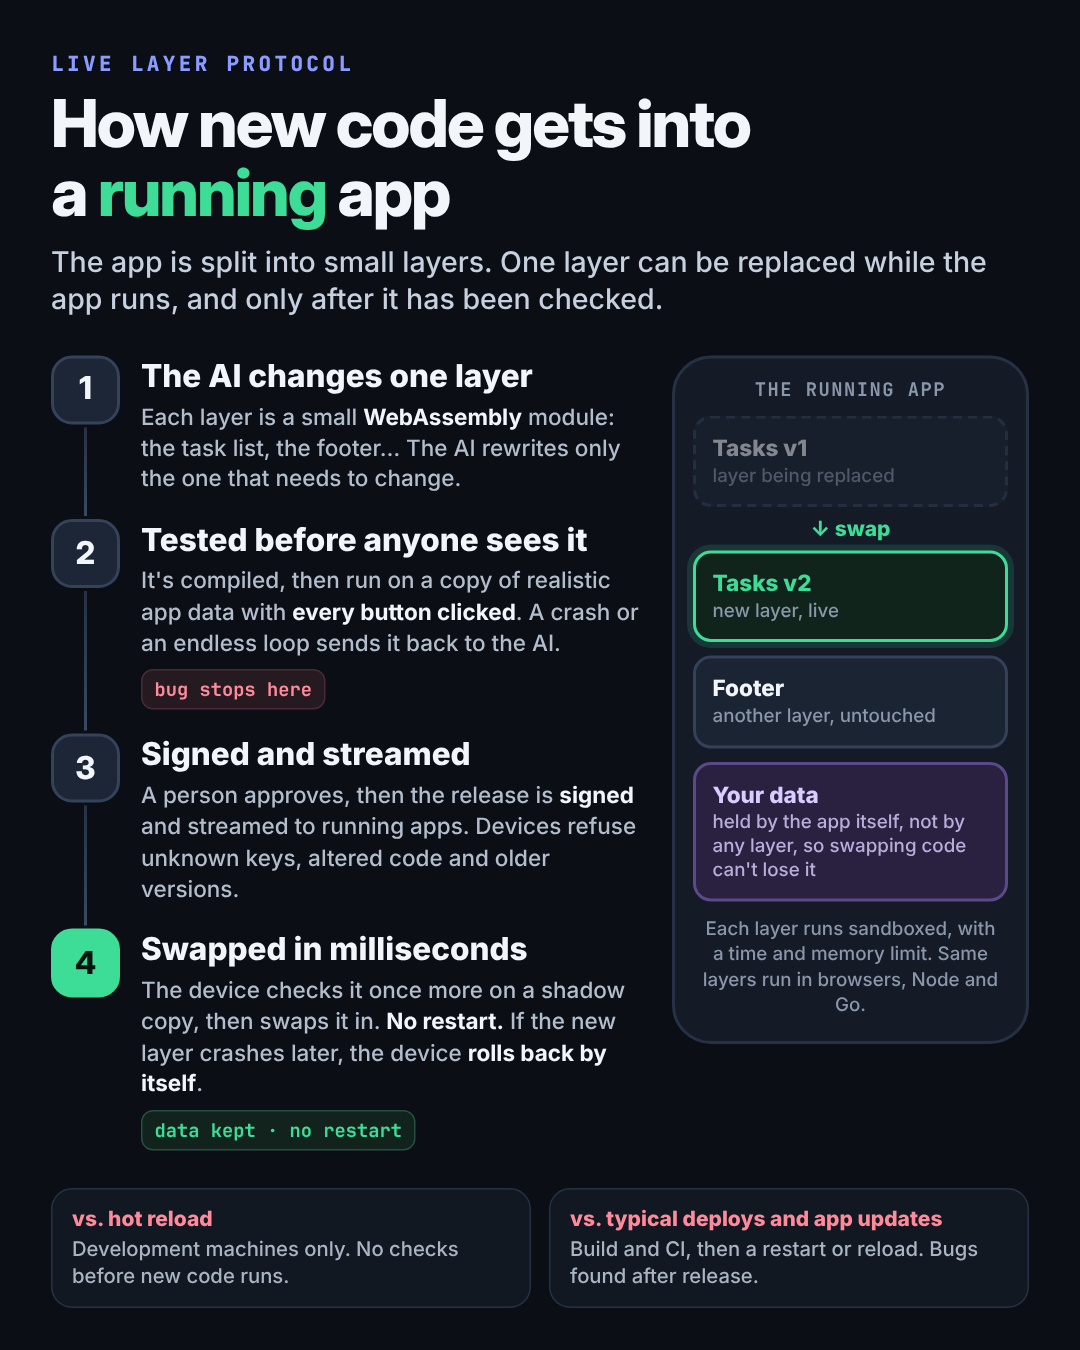
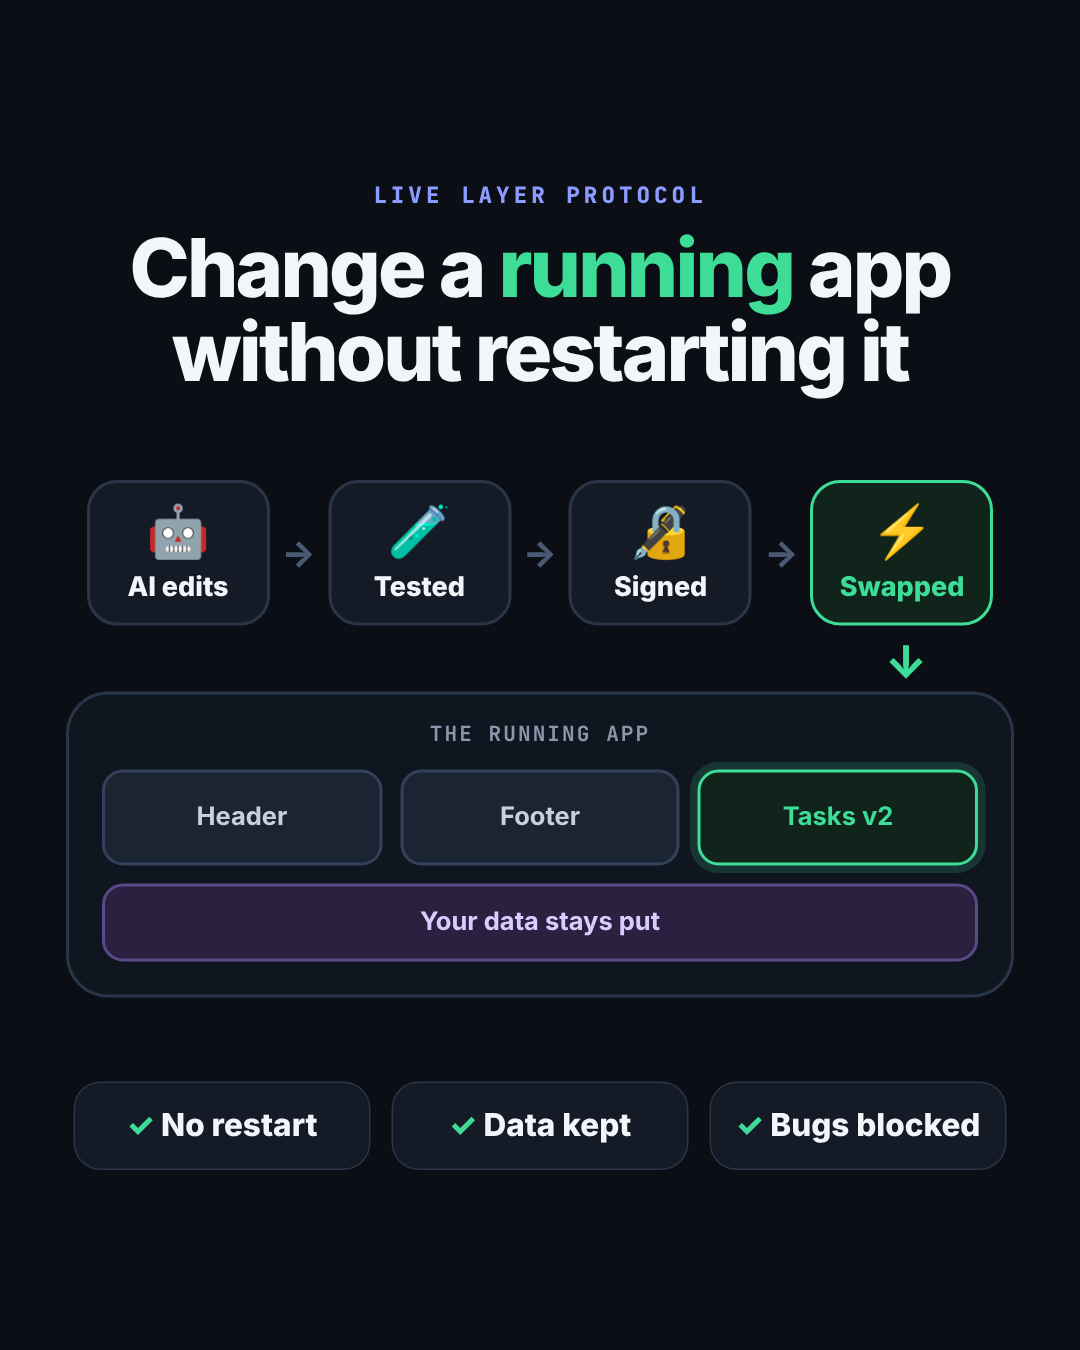
Simplify the 'How LLP works' image to one glance (#26)
Claude-Session: https://claude.ai/code/session_01WWj9cf3BCK6gR4RS3RDwqR

Changed region(s): [[0.0306, 0.0311, 0.9472, 0.9644], [0.8861, 0.3422, 0.9167, 0.3733]]

diff --git a/tools/demo-gif/architecture.html b/tools/demo-gif/architecture.html
@@ -1,76 +1,53 @@
 <!doctype html>
 <meta charset="utf-8">
 <title>How LLP works</title>
-<!-- "How LLP works" image for launch posts. Rendered to docs/llp-architecture.png (1080x1350) by
-     node tools/demo-gif/render-architecture.mjs. Every claim here is in SPEC.md sections 3, 6 and 6.1. -->
+<!-- "How LLP works" image for launch posts, kept to one glance. Rendered to docs/llp-architecture.png
+     (1080x1350) by node tools/demo-gif/render-architecture.mjs. Claims are in SPEC.md sections 3, 6 and 6.1. -->
 <style>
-:root { --bg: #0b0f15; --panel: #141b26; --line: #263244; --ink: #f2f5fa; --muted: #8a96aa;
-  --live: #3ddc97; --bad: #ff5d73; --warn: #ffb347; --accent: #8b9bff; --t: #ff8a9b; }
+:root { --bg: #0b0f15; --panel: #141b26; --line: #2a3648; --ink: #f2f5fa; --muted: #8a96aa; --live: #3ddc97; --accent: #8b9bff; }
 * { box-sizing: border-box; }
-html, body { margin: 0; width: 720px; height: 900px; overflow: hidden; background: var(--bg); color: var(--ink); font: 16px/1.35 Inter, system-ui, sans-serif; }
-.wrap { padding: 34px 34px 0; }
-.k { font: 800 14px "JetBrains Mono", monospace; letter-spacing: .16em; color: var(--accent); }
-h1 { margin: 8px 0 0; font: 800 44px/1.04 "Inter Display", Inter, sans-serif; letter-spacing: -0.03em; }
+html, body { margin: 0; width: 720px; height: 900px; overflow: hidden; background: var(--bg); color: var(--ink); font-family: Inter, system-ui, sans-serif; }
+.wrap { height: 900px; padding: 0 44px; justify-content: center; display: flex; flex-direction: column; align-items: center; text-align: center; }
+.k { font: 800 15px "JetBrains Mono", monospace; letter-spacing: .18em; color: var(--accent); }
+h1 { margin: 12px 0 0; font: 800 54px/1.03 Inter, sans-serif; letter-spacing: -0.035em; }
 h1 em { font-style: normal; color: var(--live); }
-.sub { margin: 10px 0 0; font: 500 19px/1.35 Inter, sans-serif; color: #c7d0de; }
-.grid { margin-top: 24px; display: grid; grid-template-columns: 1fr 238px; gap: 18px; }
-.steps { display: flex; flex-direction: column; gap: 0; }
-.step { display: grid; grid-template-columns: 46px 1fr; gap: 14px; position: relative; padding-bottom: 16px; }
-.step:not(:last-child)::after { content: ""; position: absolute; left: 22px; top: 48px; bottom: 2px; width: 2px; background: linear-gradient(var(--line), #3a4a63); }
-.n { width: 46px; height: 46px; border-radius: 14px; display: grid; place-items: center; font: 800 21px "Inter Display", Inter, sans-serif; background: #1d2636; border: 2px solid #34425a; color: var(--ink); }
-.step.ok .n { background: var(--live); border-color: var(--live); color: #08140f; }
-.step b { display: block; font: 800 21px/1.2 Inter, sans-serif; margin-top: 2px; }
-.step p { margin: 4px 0 0; font: 500 15px/1.38 Inter, sans-serif; color: #b3bdcc; }
-.step p strong { color: var(--ink); font-weight: 700; }
-.tag { display: inline-block; margin-top: 7px; font: 700 12.5px "JetBrains Mono", monospace; padding: 4px 8px; border-radius: 8px; background: #241a1f; color: var(--t); border: 1px solid #4a2b35; }
-.tag.g { background: #12221c; color: var(--live); border-color: #23503f; }
-.device { background: var(--panel); border: 2px solid var(--line); border-radius: 26px; padding: 12px; display: flex; flex-direction: column; gap: 9px; align-self: start; }
-.device .cap { font: 700 12.5px "JetBrains Mono", monospace; color: var(--muted); letter-spacing: .08em; text-align: center; }
-.layer { border-radius: 12px; padding: 10px 11px; background: #1b2433; border: 2px solid #33415a; }
-.layer b { display: block; font: 800 15px Inter, sans-serif; } .layer span { display: block; font: 500 12.5px/1.3 Inter, sans-serif; color: var(--muted); margin-top: 2px; }
-.layer.new { border-color: var(--live); background: #10241c; box-shadow: 0 0 0 4px rgba(61,220,151,.15); }
-.layer.new b { color: var(--live); }
-.layer.old { opacity: .5; border-style: dashed; }
-.arrow { text-align: center; font: 800 14px Inter, sans-serif; color: var(--live); margin: -3px 0; }
-.state { border-radius: 12px; padding: 10px 11px; background: #2a2140; border: 2px solid #5b4a8a; }
-.state b { display: block; font: 800 15px Inter, sans-serif; color: #d9ccff; } .state span { display: block; font: 500 12.5px/1.3 Inter, sans-serif; color: #b9addb; margin-top: 2px; }
-.hosts { font: 500 12.5px/1.35 Inter, sans-serif; color: var(--muted); text-align: center; padding: 2px 4px 2px; }
-.vs { position: absolute; left: 34px; right: 34px; bottom: 28px; display: grid; grid-template-columns: 1fr 1fr; gap: 12px; }
-.vs div { background: #121821; border: 1px solid var(--line); border-radius: 14px; padding: 11px 13px; }
-.vs b { display: block; font: 800 14px Inter, sans-serif; color: var(--t); }
-.vs span { display: block; margin-top: 3px; font: 500 13.5px/1.35 Inter, sans-serif; color: #aab4c3; }
+.flow { margin-top: 56px; display: flex; align-items: center; gap: 8px; }
+.s { width: 122px; padding: 16px 6px 13px; border-radius: 20px; background: var(--panel); border: 2px solid var(--line); }
+.s i { display: block; font: normal 34px/1 system-ui, sans-serif; }
+.s b { display: block; margin-top: 9px; font: 800 18px Inter, sans-serif; }
+.s.go { border-color: var(--live); background: #10241c; } .s.go b { color: var(--live); }
+.ar { font: 800 24px Inter, sans-serif; color: #4a5a74; }
+.down { margin: 10px 0 4px; font: 800 30px Inter, sans-serif; color: var(--live); line-height: 1; padding-left: 488px; }
+.app { width: 632px; border: 2px solid var(--line); border-radius: 28px; padding: 18px 22px 22px; background: #10161f; }
+.app .cap { font: 700 14px "JetBrains Mono", monospace; letter-spacing: .1em; color: var(--muted); }
+.layers { margin-top: 14px; display: grid; grid-template-columns: repeat(3, 1fr); gap: 12px; }
+.l { height: 64px; border-radius: 14px; border: 2px solid #33415a; background: #1b2433; display: grid; place-items: center; font: 700 17px Inter, sans-serif; color: #c7d0de; }
+.l.new { border-color: var(--live); background: #10241c; color: var(--live); box-shadow: 0 0 0 5px rgba(61,220,151,.16); }
+.data { margin-top: 12px; height: 52px; border-radius: 14px; background: #2a2140; border: 2px solid #5b4a8a; display: grid; place-items: center; font: 700 17px Inter, sans-serif; color: #d9ccff; }
+.wins { margin-top: 56px; display: flex; gap: 14px; }
+.w { width: 198px; padding: 16px 8px; border-radius: 18px; background: var(--panel); border: 1px solid var(--line); font: 800 21px/1.2 Inter, sans-serif; }
+.w span { color: var(--live); }
 </style>
 <div class="wrap">
   <div class="k">LIVE LAYER PROTOCOL</div>
-  <h1>How new code gets into<br>a <em>running</em> app</h1>
-  <p class="sub">The app is split into small layers. One layer can be replaced while the app runs, and only after it has been checked.</p>
-  <div class="grid">
-    <div class="steps">
-      <div class="step"><div class="n">1</div><div><b>The AI changes one layer</b>
-        <p>Each layer is a small <strong>WebAssembly</strong> module: the task list, the footer… The AI rewrites only the one that needs to change.</p></div></div>
-      <div class="step"><div class="n">2</div><div><b>Tested before anyone sees it</b>
-        <p>It's compiled, then run on a copy of realistic app data with <strong>every button clicked</strong>. A crash or an endless loop sends it back to the AI.</p>
-        <span class="tag">bug stops here</span></div></div>
-      <div class="step"><div class="n">3</div><div><b>Signed and streamed</b>
-        <p>A person approves, then the release is <strong>signed</strong> and streamed to running apps. Devices refuse unknown keys, altered code and older versions.</p></div></div>
-      <div class="step ok"><div class="n">4</div><div><b>Swapped in milliseconds</b>
-        <p>The device checks it once more on a shadow copy, then swaps it in. <strong>No restart.</strong> If the new layer crashes later, the device <strong>rolls back by itself</strong>.</p>
-        <span class="tag g">data kept · no restart</span></div></div>
-    </div>
-    <div class="device">
-      <div class="cap">THE RUNNING APP</div>
-      <div class="layer old"><b>Tasks v1</b><span>layer being replaced</span></div>
-      <div class="arrow">↓ swap</div>
-      <div class="layer new"><b>Tasks v2</b><span>new layer, live</span></div>
-      <div class="layer"><b>Footer</b><span>another layer, untouched</span></div>
-      <div class="state"><b>Your data</b><span>held by the app itself, not by any layer, so swapping code can't lose it</span></div>
-      <div class="hosts">Each layer runs sandboxed, with a time and memory limit. Same layers run in browsers, Node and Go.</div>
-    </div>
+  <h1>Change a <em>running</em> app<br>without restarting it</h1>
+  <div class="flow">
+    <div class="s"><i>🤖</i><b>AI edits</b></div><div class="ar">→</div>
+    <div class="s"><i>🧪</i><b>Tested</b></div><div class="ar">→</div>
+    <div class="s"><i>🔏</i><b>Signed</b></div><div class="ar">→</div>
+    <div class="s go"><i>⚡</i><b>Swapped</b></div>
   </div>
-</div>
-<div class="vs">
-  <div><b>vs. hot reload</b><span>Development machines only. No checks before new code runs.</span></div>
-  <div><b>vs. typical deploys and app updates</b><span>Build and CI, then a restart or reload. Bugs found after release.</span></div>
+  <div class="down">↓</div>
+  <div class="app">
+    <div class="cap">THE RUNNING APP</div>
+    <div class="layers"><div class="l">Header</div><div class="l">Footer</div><div class="l new">Tasks v2</div></div>
+    <div class="data">Your data stays put</div>
+  </div>
+  <div class="wins">
+    <div class="w"><span>✓</span> No restart</div>
+    <div class="w"><span>✓</span> Data kept</div>
+    <div class="w"><span>✓</span> Bugs blocked</div>
+  </div>
 </div>
 <script>
 const q = new URLSearchParams(location.search);

diff --git a/tools/demo-gif/README.md b/tools/demo-gif/README.md
@@ -59,5 +59,5 @@ The script exits without writing a GIF if the run did not show what the captions
 ## "How LLP works" image
 
 `node tools/demo-gif/render-architecture.mjs` renders `architecture.html` to `docs/llp-architecture.png`
-(1080x1350, 4:5). It fails instead of writing the image if any text overflows the frame or the
-comparison row overlaps the diagram. Every claim on it is in SPEC.md sections 3, 6 and 6.1.
+(1080x1350, 4:5). It is kept to one glance: a headline, four steps and
+three outcomes. The script fails instead of writing the image if anything overflows the frame. Every claim on it is in SPEC.md sections 3, 6 and 6.1.
